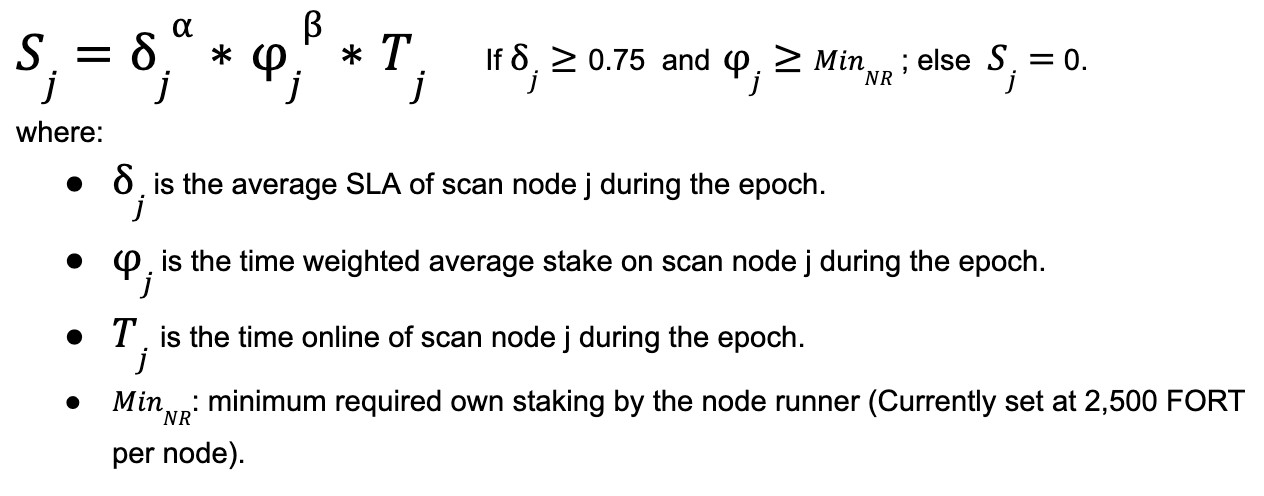
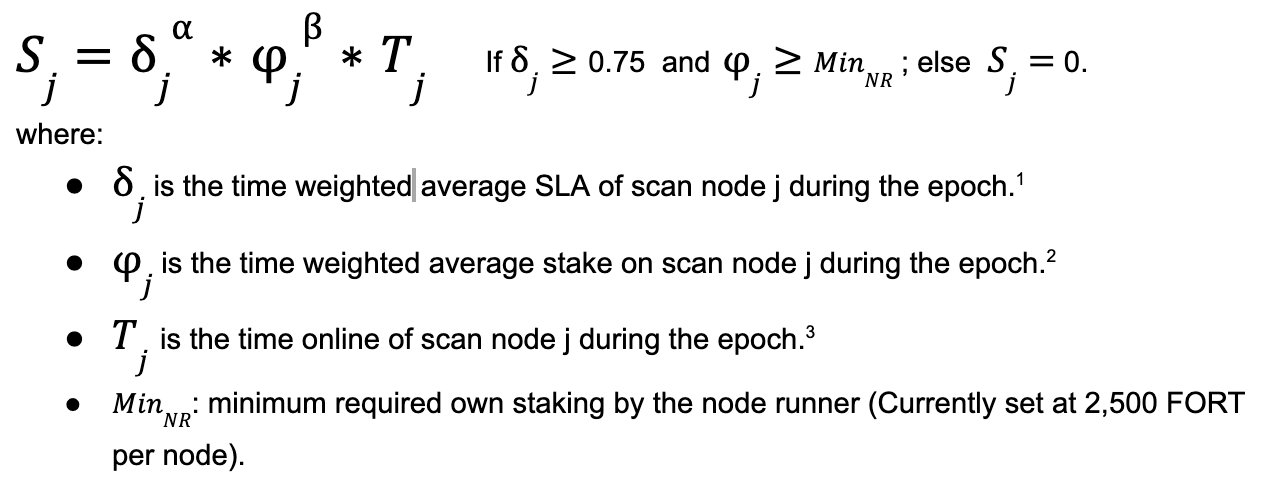
improve reward formula explanations

diff --git a/docs/delegated-staking-rewards.md b/docs/delegated-staking-rewards.md
@@ -74,8 +74,16 @@ Delegator rewards on scanner pool `i`:
  
 ![delegator rewards](rewards-images/delegators-reward.png)
 
+where:
+
 ![where](rewards-images/delegators-explain.png)
 
 The values of parameters α and β are set to 3 and 0.5 respectively and are subject to change in the future.
 
 The total amount of the delegator rewards are distributed to each delegator proportionally to their deposited stake. The on-chain rules are the ultimate authority of this logic, and in the case where the on-chain rules differ from this, it will prevail.
+
+[^1]: For this calculation, only the periods when the SLA is at least 0.75 are considered.
+
+[^2]: For this calculation, only the periods where the stake is at least 2,500 are considered. When the stake is less than that, the node is not considered to be online, so that’s already captured on the time online parameter.
+
+[^3]: Rewardable time online requires the SLA to be at least 0.75.
